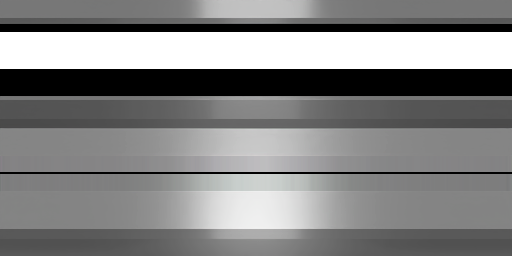
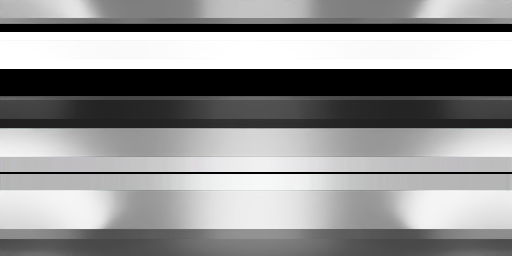
cymbal adjustments

diff --git a/Encore/src/gameplay/trackRenderer/GemTrackSlot.cpp b/Encore/src/gameplay/trackRenderer/GemTrackSlot.cpp
@@ -55,9 +55,9 @@ void Encore::GemTrackSlot::DrawNote(RhythmEngine::EncNote *note) {
             position.z -= 0.175f;
             DrawModelEx(ASSET(cymbalNote),
                         position,
-                        { 0, 0, 1 },
-                        0,
-                        { width, (track->NoteHeight * width * 1.1), width },
+                        { -1, 0, 0 },
+                        5,
+                        { width, (track->NoteHeight * width), width },
                         WHITE);
         } else {
             DrawModelEx(ASSET(hopoNote),
